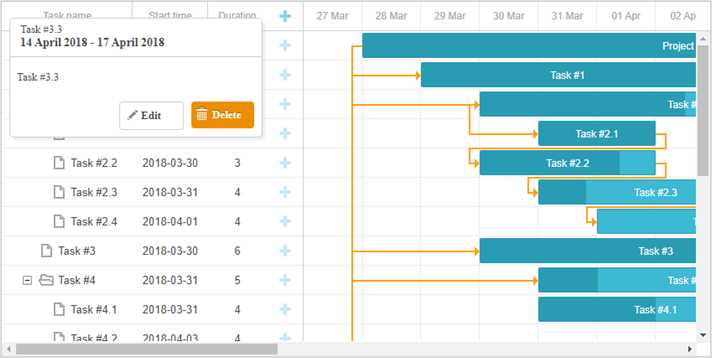
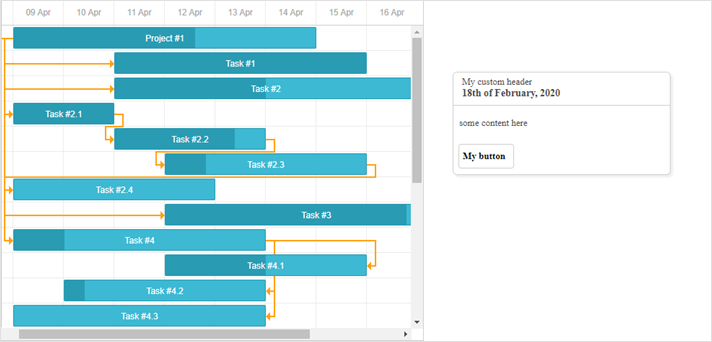
[update] quick info articles

diff --git a/data/desktop/quick_info.md b/data/desktop/quick_info.md
@@ -18,7 +18,8 @@ To start using the extension, include the ["Quick Info"](desktop/extensions_list
 API overview
 ----------------
 
-The Quick Info extension provides a set of API that allows you to manipulate the settings of Quick Info, to control its behavior or modify the appearance of a popup:
+The Quick Info extension provides a set of API that allows you to manipulate the settings of Quick Info, to control its behavior or modify the appearance of a popup. <br>
+You may use either [the API of the gantt.ext.quickInfo object](desktop/quick_info.md#quickinfoobject) or public API of dhtmlxGantt that is listed below:
 
 **Methods**
 
@@ -52,17 +53,17 @@ Starting from v7.0, the functionality of the Quick Info is extended; the [gantt.
 The methods available via the **gantt.ext.quickInfo** object are:
 
 - **show()** - displays the quick info popup for a specified task. It takes one parameter:
-    - **id** - (*string|number*) the if of a task/link/resource
+    - **id** - (*string|number*) the id of a task/link/resource
 - **show()**  - displays the quick info popup at specific coordinates. The parameters are:
     - **top** - (*number*) the X coordinate
     - **left** - (*number*) the Y coordinate
-- **hide([force: boolean])** - hides the quick info popup. When **gantt.config.quick_info_detached** is set to *false*, the quick info will not disappear immediately, but after a short animation.
-Providing *true* will cancel the animation and will remove the popup immediately.
-- **setContainer**() - sets a container where the quick info will be displayed. 
-    - **container** - (*string|HTMLElement*) a QuickInfo container. If no custom container specified, QuickInfo will be placed into the first found node of these ones: **gantt.$task, gantt.$grid, gantt.$layout**
-- **getNode()** - return the HTMLElement of the quick info popup. Returns *null* if the quick info is not initialized
+- **hide()** - hides the quick info popup. The method can take one optional parameter:
+    - **[ force ]** - (*boolean*) defines whether the quick info will disappear immediately when [gantt.config.quick_info_detached](api/gantt_quick_info_detached_config.md) is set to *false*. Providing *true* as a parameter of the **hide** method will remove the popup immediately, otherwise - the popup will disappear after a short animation.
+- **setContainer()** - sets a container where the quick info will be displayed. 
+    - **container** - (*string|HTMLElement*) a QuickInfo container. If no custom container specified, QuickInfo will be placed into the first of the found nodes: **gantt.$task, gantt.$grid, gantt.$layout**
+- **getNode()** - returns the HTMLElement of the quick info popup. Returns *null* if the quick info is not initialized
 - **setContent(config)** - (*object*) puts the content into the quick info. It takes a configuration object of a quick info as a parameter. <br>
-The configuration object has the following structure:
+The *configuration object* has the following structure:
     - **taskId** - (*string|number*) optional, the id of the task to which the action buttons of the quick info will be connected
     - **header** - optional, the header of the pop-up edit form which may include:
         - **title** - (*string*) optional, the title of the pop-up edit form
@@ -91,7 +92,9 @@ gantt.ext.quickInfo.show(link.id);
 gantt.ext.quickInfo.show(100, 200);
 ~~~
 
-To hide a pop-up edit form, make use of the **gantt.ext.quickInfo.hide()** method:
+To hide a pop-up edit form, make use of the **gantt.ext.quickInfo.hide()** method. The method depends on the **gantt.config.quick_info_detached** config and presupposes two possible options:
+
+- when called without parameters, the pop-up edit form will be hidden from the screen after a short animation 
 
 ~~~js
 gantt.config.quick_info_detached = false;
@@ -99,27 +102,19 @@ gantt.init("gantt_here");
 
 // hide the popup after a short animation
 gantt.ext.quickInfo.hide();
+~~~
 
-or
+- if you want to hide the quick info at once, pass *true* as a parameter to the **hide** method:
+
+~~~js
+gantt.config.quick_info_detached = false;
+gantt.init("gantt_here");
 
 // hide the popup immediately
 gantt.ext.quickInfo.hide(true);
 ~~~
 
-####**Setting a container for QuickInfo** 
-
-You can use the **gantt.ext.quickInfo.setContainer()** method to make the quick info popup to be displayed in a custom container:
-
-~~~js
-const quickInfo = gantt.ext.quickInfo;
-quickInfo.setContainer(document.body); /*!*/
-var task = gantt.getTask(10);
-gantt.ext.quickInfo.show(task.id);
-~~~
-
-Now, the pop-up will be rendered in **document.body** .
-
-<img src="desktop/quick_container.png">
+Note, that if the **gantt.config.quick_info_detached** config is set to *true*, the method will always hide the popup immediately.
 
 ####**Creating a custom QuickInfo**
 
@@ -146,3 +141,25 @@ As a result, the following quick info popup will appear on the page:
 <img src="desktop/quick_custom.png">
 
 
+####**Setting a container for QuickInfo** 
+
+You can use the **gantt.ext.quickInfo.setContainer()** method to make the quick info popup to be displayed in a custom container:
+
+~~~js
+const quickInfo = gantt.ext.quickInfo;
+quickInfo.setContainer(document.body); /*!*/
+gantt.ext.quickInfo.show(1300,100);
+gantt.locale.labels.custom_button = "My button"
+gantt.ext.quickInfo.setContent({
+    header:{
+        title: "My custom header",
+        date: "18th of February, 2020"
+    },
+    content: "some content here",
+    buttons: ["custom_button"]
+});
+~~~
+
+Now, the pop-up with custom content will be rendered in **document.body** outside the container of Gantt:
+
+<img src="desktop/quick_container.png">

diff --git a/data/desktop/quickinfo_ext.md b/data/desktop/quickinfo_ext.md
@@ -7,16 +7,49 @@ The *quickInfo* object possesses the following API:
 Methods
 ----------------
 
-- **show()** - displays the quick info popup for a specified task. It takes one parameter:
-    - **id** - (*string|number*) the if of a task/link/resource
-- **show()**  - displays the quick info popup at specific coordinates. The parameters are:
-    - **top** - (*number*) the X coordinate
-    - **left** - (*number*) the Y coordinate
-- **hide([force: boolean])** - hides the quick info popup. When **gantt.config.quick_info_detached** is set to *false*, the quick info will not disappear immediately, but after a short animation.
-Providing *true* will cancel the animation and will remove the popup immediately.
-- **setContainer**() - sets a container where the quick info will be displayed. 
-    - **container** - (*string|HTMLElement*) a QuickInfo container. If no custom container specified, QuickInfo will be placed into the first found node of these ones: **gantt.$task, gantt.$grid, gantt.$layout**
+- **show(id)** - displays the quick info popup for a specified element
+ 
+~~~js
+gantt.ext.quickInfo.show("1");
+~~~
+
+- **show(x,y)**  - displays the quick info popup at specific coordinates
+
+~~~js
+gantt.ext.quickInfo.show(10,30);
+~~~
+
+- **hide([force: boolean])** - hides the quick info popup. When **gantt.config.quick_info_detached** is set to *false*, the quick info will not disappear immediately, but after a short animation. Providing *true* value as an argument will cancel the animation and will remove the popup immediately.
+
+~~~js
+gantt.config.quick_info_detached = false;
+gantt.init("gantt_here");
+ 
+// hide the popup after a short animation
+gantt.ext.quickInfo.hide();
+ 
+// hide the popup immediately
+gantt.ext.quickInfo.hide(true);
+~~~
+
+- **setContainer(container)** - sets a container where the quick info will be displayed. If no custom container specified, QuickInfo will be placed into the first of the found nodes: **gantt.$task, gantt.$grid, gantt.$layout**
+
+~~~js
+gantt.ext.quickInfo.setContainer(document.body);
+gantt.ext.quickInfo.show(1300,100);
+
+~~~
+
 - **getNode()** - return the HTMLElement of the quick info popup. Returns *null* if the quick info is not initialized
+
+~~~js
+const node = gantt.ext.quickInfo.getNode();
+~~~
+
+The returned DOM element of the shown quick info is:
+
+<img src="desktop/quick_node.png">
+
 - **setContent(config)** - (*object*) puts the content into the quick info. It takes a configuration object of a quick info as a parameter. <br>
 The configuration object has the following structure:
     - **taskId** - (*string|number*) optional, the id of the task to which the action buttons of the quick info will be connected
@@ -26,3 +59,33 @@ The configuration object has the following structure:
     - **content** - (*string*) optional, the content of the pop-up edit form
     - **buttons** - (*string[]*) optional, buttons to be placed in the pop-up edit form<br>
 If neither header nor buttons are specified, the related areas of the quick info popup will be hidden.
+
+Here is what the configuration object of the **setContent** method can look like:
+
+~~~js
+const quickInfo = gantt.ext.quickInfo;
+var task = gantt.getTask(10);
+quickInfo.show(task.id);
+quickInfo.setContent({
+    taskId: task.id,
+	header: {
+		title: gantt.templates.quick_info_title(task.start_date, task.end_date, task),
+		date: gantt.templates.quick_info_date(task.start_date, task.end_date, task)
+	},
+	content: gantt.templates.quick_info_content(task.start_date, task.end_date, task),
+	buttons: gantt.config.quickinfo_buttons
+});
+~~~
+
+or
+
+You can create a custom pop-up without a header and buttons:
+
+~~~js
+const quickInfo = gantt.ext.quickInfo;
+quickInfo.show(100, 100);
+quickInfo.setContent({
+    content: "my custom html",
+    buttons: []
+});
+~~~
